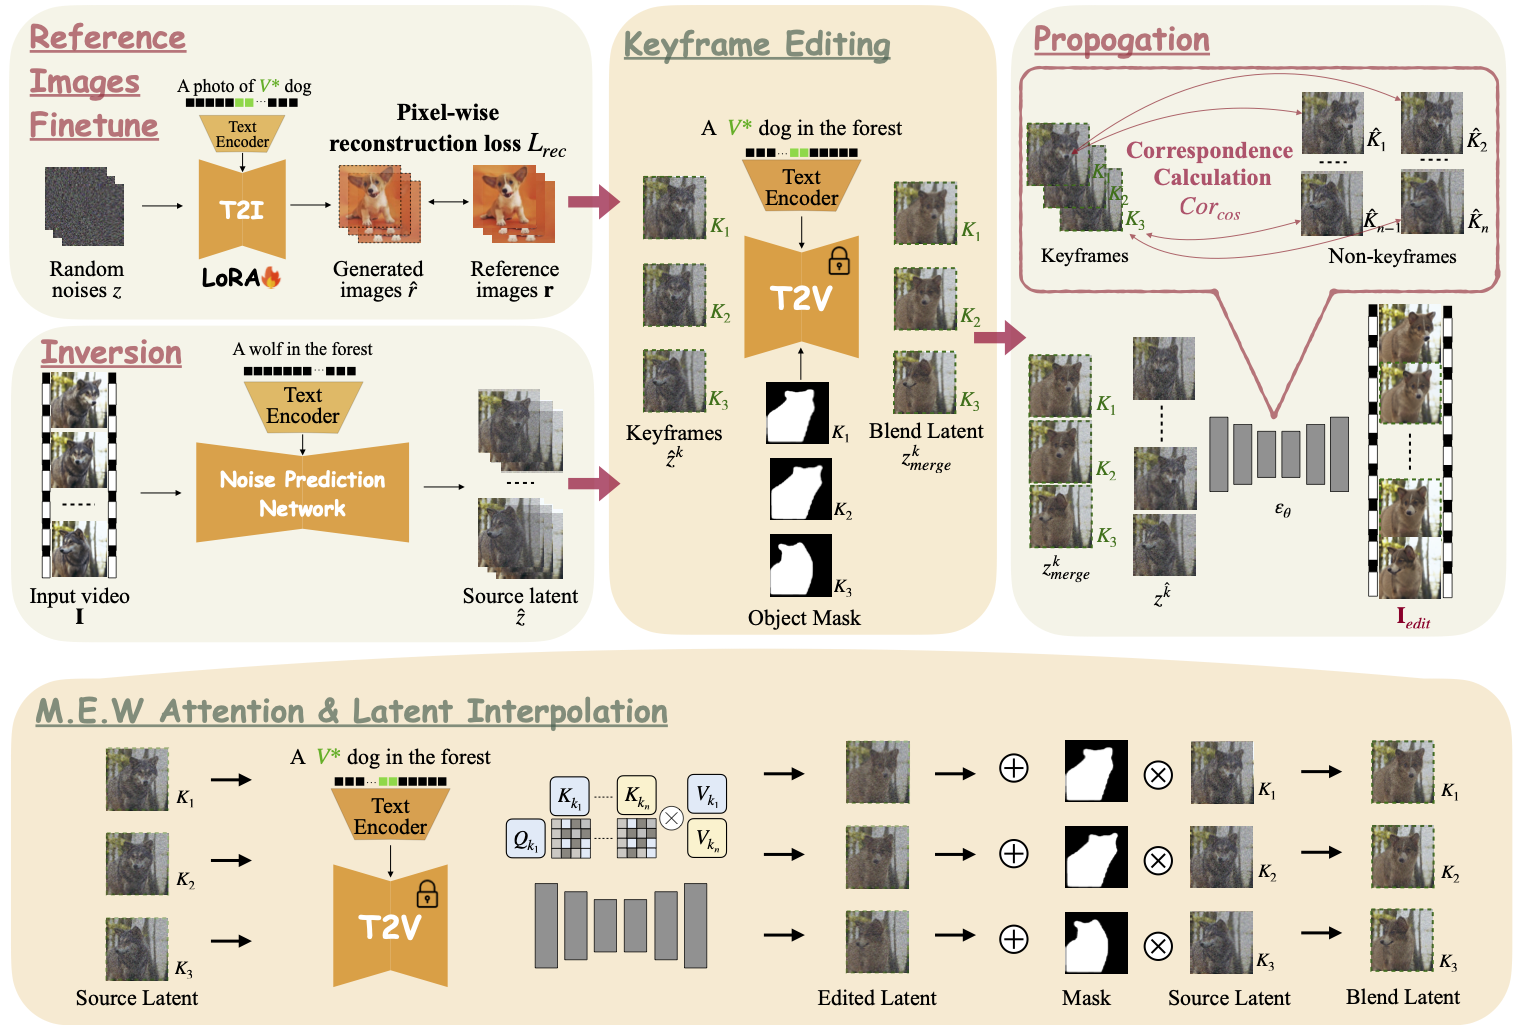
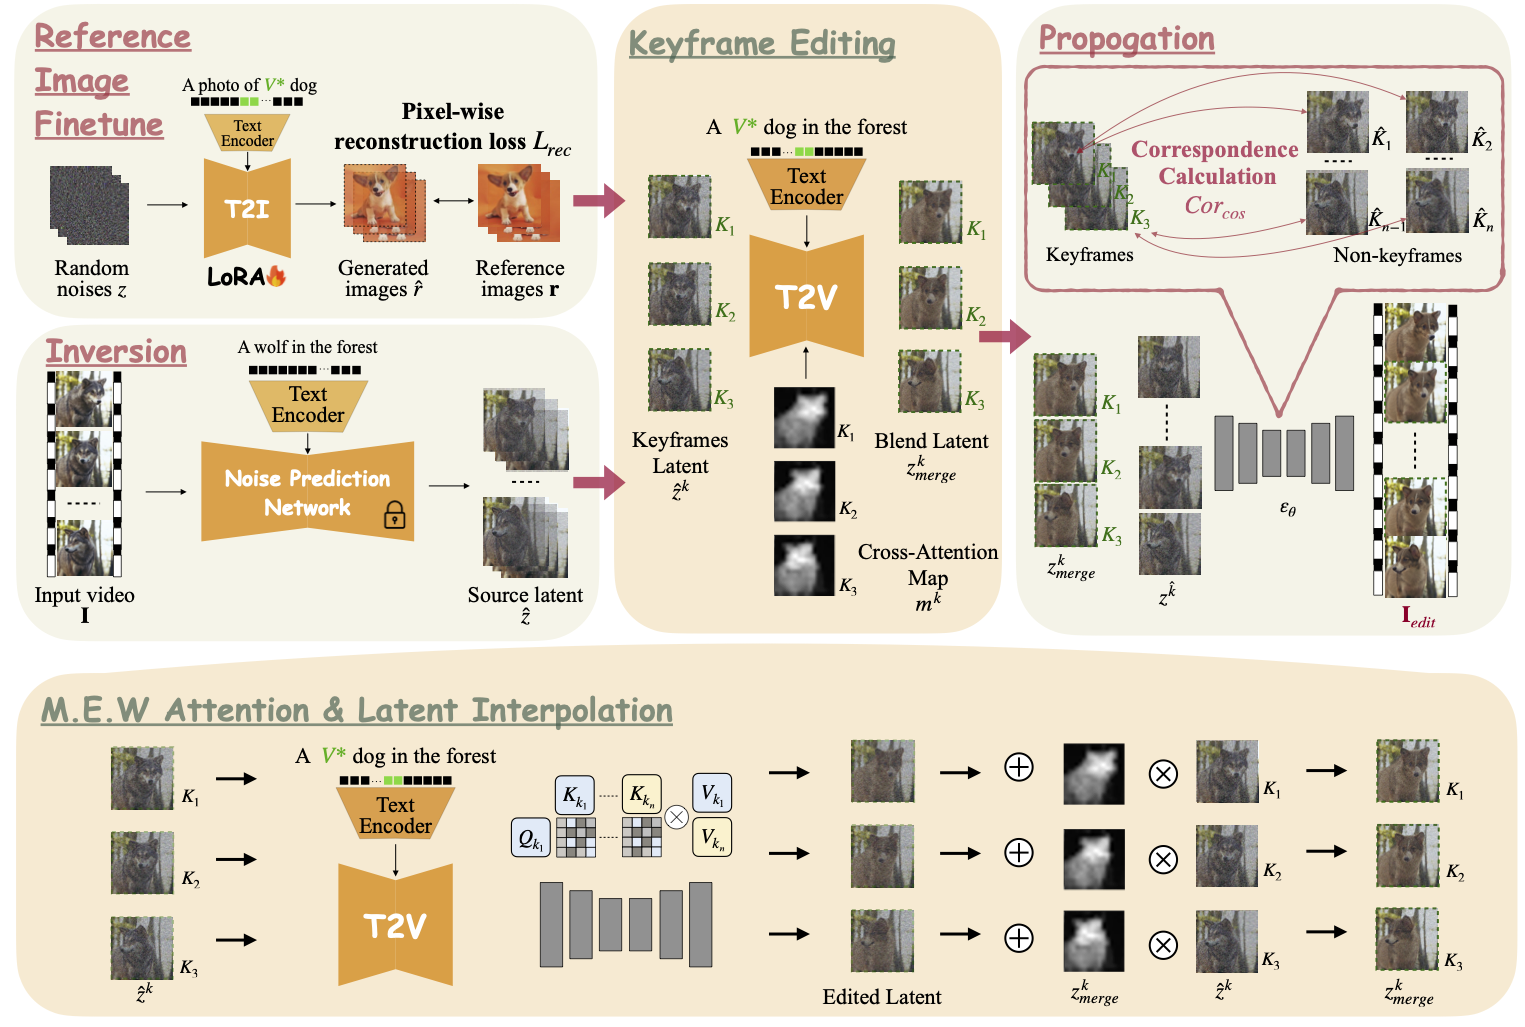
PR-index-update

diff --git a/index.html b/index.html
@@ -98,6 +98,7 @@
         </div>
         <p class="content has-text-justified">
          <b>Pipeline:</b> OCVE performs user-intent-driven editing on the original video. First, the user provides reference images containing the target object. Through reference image fine-tuning, the object concept V* is extracted. Then, the object mentioned in the original video’s caption is replaced with V*, regenerating the video content to reflect the desired edits.
+         
          <br/><br/>
         </p>
       </div>
@@ -116,7 +117,7 @@
           <img src="static/images/ocve_framework.png" />
         </div>
         <p class="content has-text-justified">
-         <b>Method:</b> CVE framework: Our novel object-centric video editing framework incorporates: 1) Reference image-based LoRA fine-tuning, 2) Memory-efficient window attention for optimized keyframe generation, and 3) Latent Interpolation for controlled edits and inter-frame propagation.
+         <b>Method:</b> OCVE framework: Our novel object-centric video editing framework incorporates: 1) Reference image-based LoRA fine-tuning, 2) Memory-efficient window attention and latent interpolation for keyframe editing, 3) Keyframe-to-non-keyframe correspondence editing content propagation.
          <br/><br/>
         </p>
       </div>
